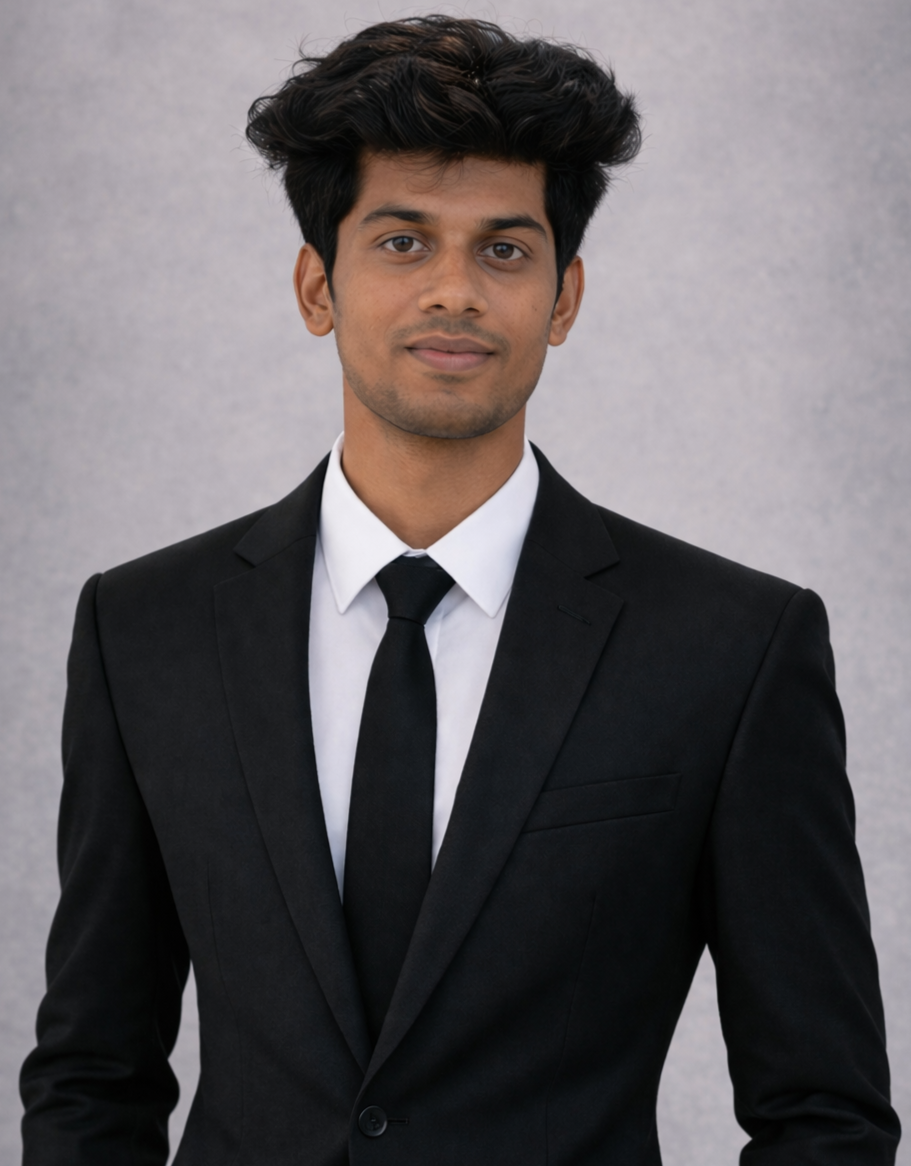
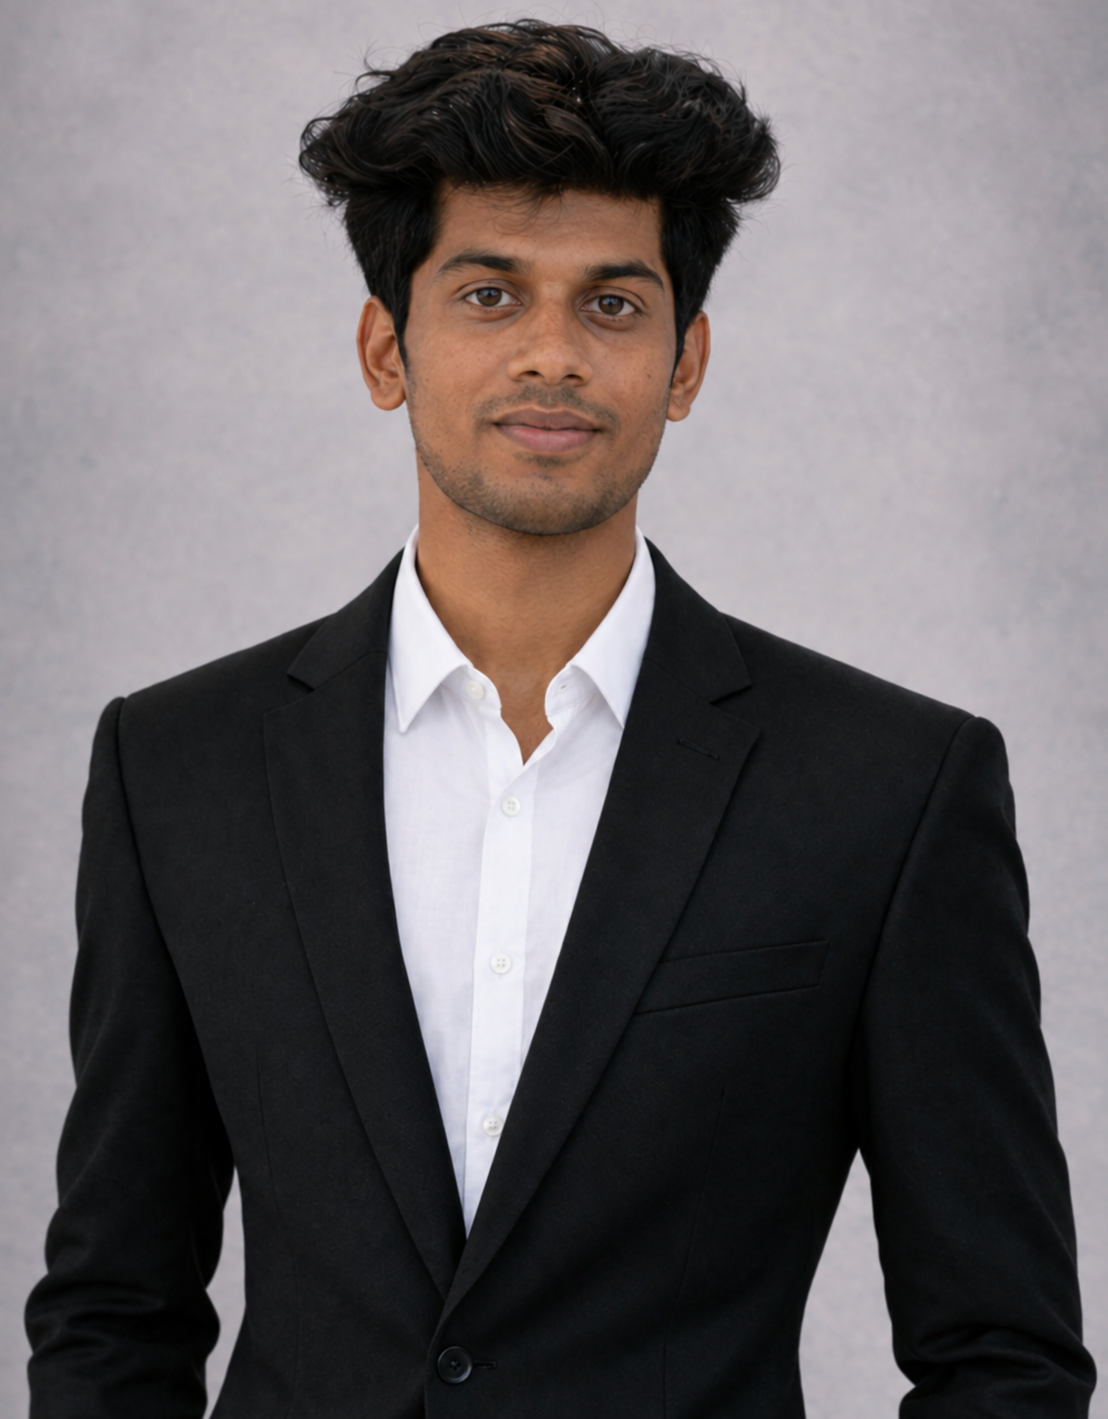
Initial commit

diff --git a/client/src/Project.jsx b/client/src/Project.jsx
@@ -27,7 +27,7 @@ function Project() {
       date: "2026",
       description: "Formulated a multimodal AI system combining CNN-based leaf analysis with soil (pH, moisture, NPK) and weather data to detect nutrient deficiencies and severity. Introduced DSEE to capture spatial progression patterns, enhancing feature representation. Built a hybrid data-fusion model delivering high-confidence predictions with fertilizer recommendations, and integrated an LLM-based chatbot to enhance user interaction and decision support, improving usability and practical adoption in real-world farming scenarios.",
       image: Nutrient_Deficiency,
-      tech: ['Multimodal AI', 'Mistral LLM','DSEE'],
+      tech: ['Multimodal AI', 'Groq LLM','DSEE'],
       demo: "https://multimodal-nutriai.streamlit.app/",
       github: "https://github.com/Avins-VR/Multimodal-NutriAI"
     },
